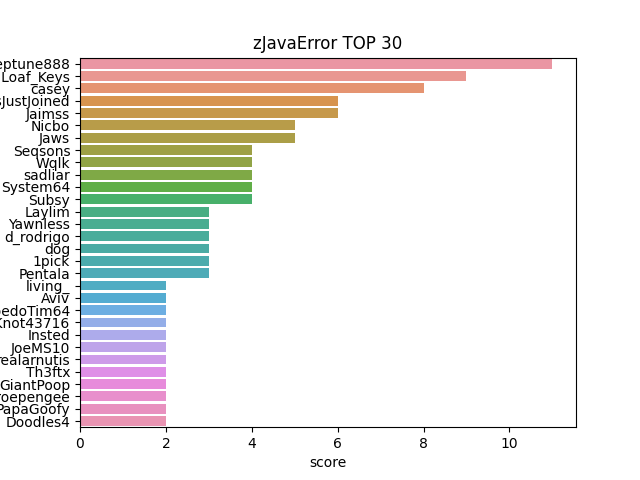
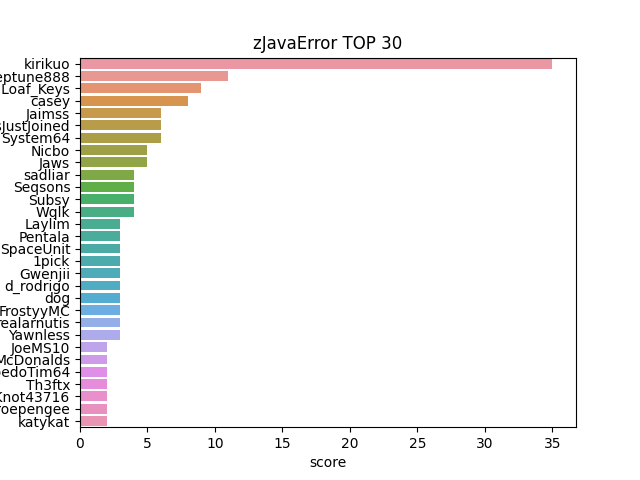
zJavaError

diff --git a/InvadedLands/User/zJavaError/README.md b/InvadedLands/User/zJavaError/README.md
@@ -2,107 +2,123 @@
 ## Table of people who liked
 Names | score
 --- | ---
+kirikuo | 35
 Neptune888 | 11
 BreadLoaf_Keys | 9
 casey | 8
-JamesJustJoined | 6
 Jaimss | 6
+JamesJustJoined | 6
+System64 | 6
 Nicbo | 5
 Jaws | 5
-Seqsons | 4
-Wqlk | 4
 sadliar | 4
-System64 | 4
+Seqsons | 4
 Subsy | 4
+Wqlk | 4
 Laylim | 3
-Yawnless | 3
+Pentala | 3
+SpaceUnit | 3
+1pick | 3
+Gwenjii | 3
 d_rodrigo | 3
 dog | 3
-1pick | 3
-Pentala | 3
-living_ | 2
-Aviv | 2
-TorpedoTim64 | 2
-UpbeatKnot43716 | 2
-Insted | 2
+FrostyyMC | 3
+realarnutis | 3
+Yawnless | 3
 JoeMS10 | 2
-realarnutis | 2
-Th3ftx | 2
-GiantPoop | 2
-astroepengee | 2
-PapaGoofy | 2
-Doodles4 | 2
-Candi | 2
 McDonalds | 2
-SpaceUnit | 1
-SkeppyJr | 1
-SkeppyCat | 1
-TheTimeDefender | 1
-SkittlesTM | 1
-Smakina | 1
-Serpent0406 | 1
+TorpedoTim64 | 2
+Th3ftx | 2
+UpbeatKnot43716 | 2
+astroepengee | 2
+katykat | 2
+living_ | 2
+myro | 2
+Insted | 2
+PapaGoofy | 2
+Aviv | 2
+Candi | 2
+GiantPoop | 2
+Hydrozing | 1
+Caleux (Lucas) | 1
+Apportioned | 1
+BMBradleyYT | 1
+BabyKrypto | 1
+amemably | 1
+ameliaaaaa | 1
+Baldboyhalo1414 | 1
 Xyst_ | 1
-Twisst | 1
+WolfCrafted | 1
+evites | 1
 WasabiRaven | 1
+V_A_M | 1
+Twisst | 1
+Captmarshmellow | 1
+TheTimeDefender | 1
+Clyp | 1
+Connor | 1
+embox | 1
+hamoka | 1
+Dave | 1
+heytylerreid | 1
+xImmune | 1
+wetplace | 1
 vaxxi | 1
 vQuil | 1
 universalt | 1
 thehydrogen | 1
-myro | 1
+AdaptableRuben | 1
+sSkiez | 1
+AirDog46 | 1
+naviwinn | 1
+Akatusuki | 1
 mvri | 1
 mcpmeme | 1
 lwcy | 1
-katykat | 1
-heytylerreid | 1
-hamoka | 1
-evites | 1
-embox | 1
-amemably | 1
-ameliaaaaa | 1
-RichieInDaBox | 1
-WolfCrafted | 1
-Sedatte | 1
-OrionPvP | 1
-Rhymings | 1
-Caleux (Lucas) | 1
-EmberAydin | 1
-Elementalish | 1
-DreamLogic | 1
-Dave | 1
-DDRNSTPMGMX | 1
-Connor | 1
-Clyp | 1
-Captmarshmellow | 1
-Baldboyhalo1414 | 1
-F1_fan2005 | 1
-BabyKrypto | 1
-BMBradleyYT | 1
-Apportioned | 1
-AmitTMB | 1
 AloneTM | 1
-Akatusuki | 1
-AirDog46 | 1
-AdaptableRuben | 1
+AmitTMB | 1
+AnolTongi | 1
+DDRNSTPMGMX | 1
+Smakina | 1
+ISpexI | 1
+Jorb | 1
+Mikhail0 | 1
 Etshaw | 1
-Fr0stTheElk | 1
-RexizX | 1
-Lonewulfx3 | 1
-Reblxtemp3r | 1
-QueefingDorito | 1
-Peguinster | 1
-AB987 | 1
-OneDance | 1
-Monit0r | 1
 MagnitoIsAGod | 1
 MASKBOYMARCEL | 1
-Jorb | 1
-FrostyyMC | 1
+Lonewulfx3 | 1
+F1_fan2005 | 1
+Lauren | 1
+Kayloo | 1
+FortyPercent | 1
+SkittlesTM | 1
 Jedadah | 1
+Fr0stTheElk | 1
+GlitchyCube | 1
 JBF_Films | 1
 ItsYaBoiAlex14 | 1
-IcyHotHead | 1
-ISpexI | 1
-Hydrozing | 1
+InvadedLands | 1
 Gusuu | 1
-GlitchyCube | 1
+IcyHotHead | 1
+Monit0r | 1
+EmberAydin | 1
+Elementalish | 1
+OneDance | 1
+SkeppyJr | 1
+SkeppyCat | 1
+Serpent0406 | 1
+Doodles4 | 1
+Sedatte | 1
+RichieInDaBox | 1
+Rhymings | 1
+RexizX | 1
+Redot | 1
+Reblxtemp3r | 1
+QueefingDorito | 1
+Plutoniur | 1
+DreamLogic | 1
+Peguinster | 1
+Party | 1
+AB987 | 1
+OrionPvP | 1
 xVurs | 1
